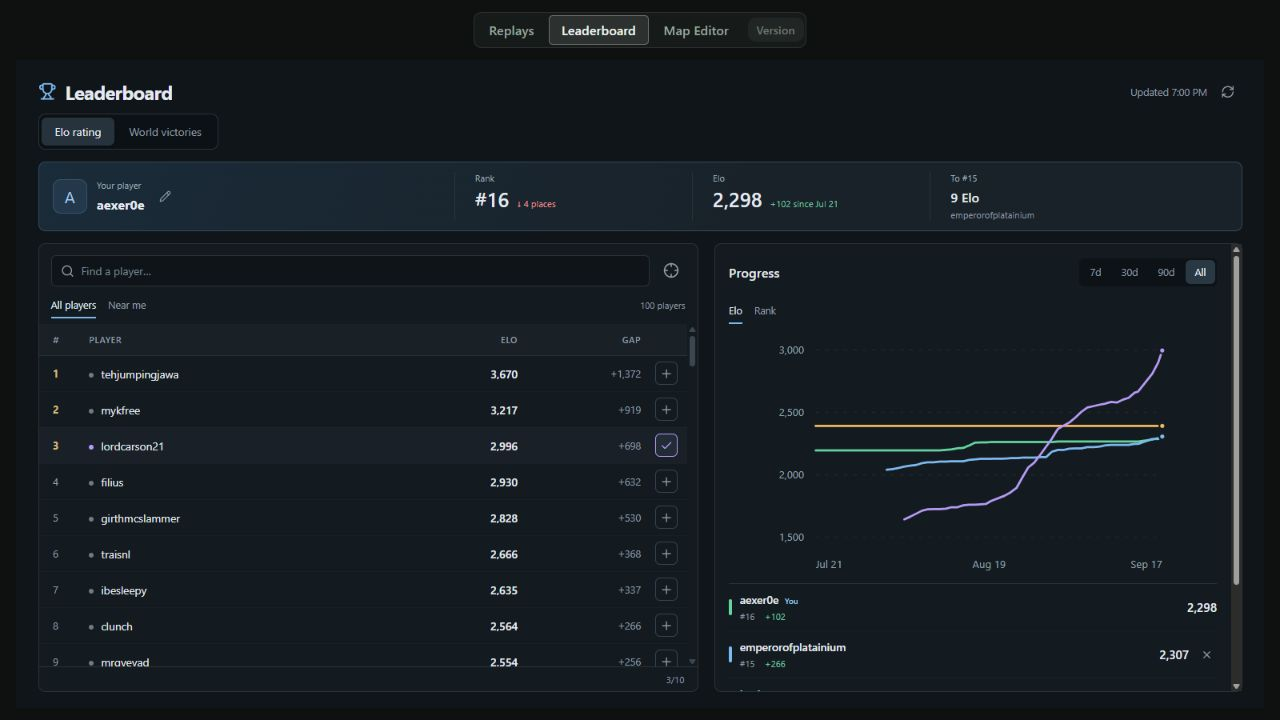
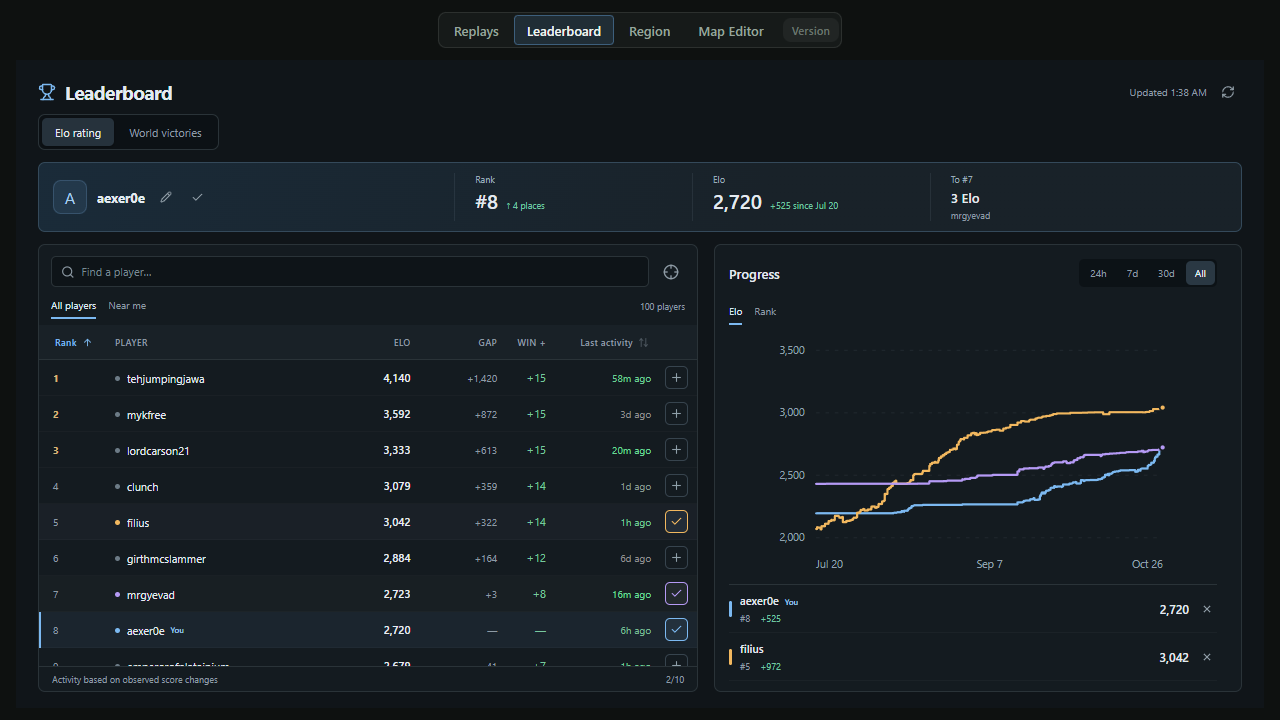
Update the landing page for 2.1.0 with downloads for every platform and new screenshots

diff --git a/docs/index.html b/docs/index.html
@@ -4,11 +4,11 @@
   <meta charset="utf-8">
   <meta name="viewport" content="width=device-width, initial-scale=1">
   <title>More of Dots</title>
-  <meta name="description" content="A free Windows app for War of Dots. Browse and record replays, track your rankings, and create custom maps.">
+  <meta name="description" content="A free app for War of Dots on Windows, macOS and Linux. Watch and export replays, follow the leaderboards, and build custom maps.">
   <link rel="icon" type="image/png" href="icon.png">
   <meta property="og:title" content="More of Dots">
-  <meta property="og:description" content="A free Windows app for War of Dots. Browse and record replays, track your rankings, and create custom maps.">
-  <meta property="og:image" content="screenshots/replays.png">
+  <meta property="og:description" content="A free app for War of Dots on Windows, macOS and Linux. Watch and export replays, follow the leaderboards, and build custom maps.">
+  <meta property="og:image" content="screenshots/player.png">
   <style>
     :root {
       --bg: #f7f3e8;
@@ -115,6 +115,28 @@
     }
 
     .btn.primary:hover { background: var(--green-dark); }
+
+    /* The other platforms, on one line under the main button. */
+    .also {
+      margin-top: 16px;
+      font-size: 0.95rem;
+      color: var(--muted);
+      display: flex;
+      gap: 6px 18px;
+      justify-content: center;
+      flex-wrap: wrap;
+    }
+
+    .also a {
+      color: var(--text);
+      font-weight: 600;
+      text-decoration-thickness: 2px;
+      text-underline-offset: 3px;
+    }
+
+    html[data-platform="windows"] .also [data-download="windows"],
+    html[data-platform="macos"] .also [data-download="macos"],
+    html[data-platform="linux"] .also [data-download="linux"] { display: none; }
 
     .fine-print {
       margin-top: 14px;
@@ -244,6 +266,39 @@
       font-size: 0.95rem;
     }
 
+    /* ---- platform notes ---- */
+
+    .notes {
+      margin-top: 56px;
+      display: grid;
+      grid-template-columns: repeat(3, 1fr);
+      gap: 18px;
+      font-size: 0.9rem;
+      color: var(--muted);
+    }
+
+    .notes div {
+      border-top: 3px solid var(--line);
+      padding-top: 10px;
+    }
+
+    .notes strong {
+      display: block;
+      color: var(--text);
+    }
+
+    .notes code {
+      font-family: Consolas, "SF Mono", monospace;
+      font-size: 0.88em;
+      background: rgba(43, 38, 32, 0.07);
+      padding: 1px 5px;
+      border-radius: 4px;
+    }
+
+    @media (max-width: 640px) {
+      .notes { grid-template-columns: 1fr; }
+    }
+
     /* ---- dots divider ---- */
 
     .dots {
@@ -295,18 +350,25 @@
       <path d="M3 8 C 20 2, 36 10, 52 6 S 84 2, 100 7 S 132 10, 148 5 S 178 3, 187 7"
             fill="none" stroke="#5c8a3c" stroke-width="4" stroke-linecap="round"/>
     </svg>
-    <p class="tagline">A free Windows app for War of Dots. Browse and record replays, track your rankings, and create custom maps.</p>
+    <p class="tagline">A free app for War of Dots on Windows, macOS and Linux. Watch and export replays, follow the leaderboards, and build custom maps.</p>
     <div class="buttons">
-      <a class="btn primary" id="download-btn" href="https://github.com/aexer0e/more-of-dots/releases/download/v1.3.4/More.of.Dots_1.3.4_x64-setup.exe">Download for Windows</a>
-      <a class="btn" href="https://github.com/aexer0e/more-of-dots">Source on GitHub</a>
+      <a class="btn primary" data-download="current" href="https://github.com/aexer0e/more-of-dots/releases/latest">Download for <span data-platform-name>Windows</span></a>
+      <a class="btn" href="https://aexer0e.dev/wod-replay-player/">Watch replays in your browser</a>
     </div>
-    <p class="fine-print" id="fine-print">Free · Open source · Windows installer · v1.3.4</p>
+    <p class="also">
+      <span>Also for</span>
+      <a data-download="windows" href="https://github.com/aexer0e/more-of-dots/releases/latest">Windows</a>
+      <a data-download="macos" href="https://github.com/aexer0e/more-of-dots/releases/latest">macOS</a>
+      <a data-download="linux" href="https://github.com/aexer0e/more-of-dots/releases/latest">Linux</a>
+      <a href="https://github.com/aexer0e/more-of-dots">Source on GitHub</a>
+    </p>
+    <p class="fine-print">Free · Open source · <span data-version>v2.1.0</span></p>
 
     <figure class="shot-hero tilt-l">
       <div class="shot">
-        <img src="screenshots/replays.png" alt="The replay browser showing a grid of War of Dots replays with map thumbnails, player names and winners" width="1280" height="720">
+        <img src="screenshots/player.png" alt="The replay player showing a 2v2 match on Zolamare 51, with front lines, units, player names, casualty and troop counts, and the playback bar" width="1280" height="720">
       </div>
-      <figcaption><span class="cap-dot blue"></span>Replay browser</figcaption>
+      <figcaption><span class="cap-dot blue"></span>Replay player, 2v2 on Zolamare 51</figcaption>
     </figure>
   </div>
 
@@ -327,15 +389,29 @@
         <li>
           <span class="dot" aria-hidden="true"></span>
           <div>
-            <strong>Replay browser</strong>
-            <p>Search by player, filter matches, and preview the latest maps. Replays are backed up automatically.</p>
+            <strong>Replay player</strong>
+            <p>Open any replay in its own window. Seek, change speed and toggle layers, with the game's own music and sounds.</p>
           </div>
         </li>
         <li>
           <span class="dot" aria-hidden="true"></span>
           <div>
-            <strong>Replay recording</strong>
-            <p>Export replays as videos, including older compatible replays. Install or update the recorder from the export dialog.</p>
+            <strong>Video export</strong>
+            <p>Turn replays into MP4 videos with sound, up to 1080p and much faster than real time.</p>
+          </div>
+        </li>
+        <li>
+          <span class="dot" aria-hidden="true"></span>
+          <div>
+            <strong>Every map, every mode</strong>
+            <p>Replays open on all 80 official maps in 1v1, 2v2, free-for-all and experiment mode.</p>
+          </div>
+        </li>
+        <li>
+          <span class="dot" aria-hidden="true"></span>
+          <div>
+            <strong>Replay browser</strong>
+            <p>Search by player, filter by mode and map, and keep a backup of every replay.</p>
           </div>
         </li>
         <li>
@@ -358,16 +434,37 @@
     <div class="shot-pair">
       <figure class="tilt-r">
         <div class="shot">
-          <img src="screenshots/map-editor.png" alt="The map editor with terrain painting tools and red and blue units placed on a custom map" width="1280" height="720" loading="lazy">
+          <img src="screenshots/replays.png" alt="The replay browser showing a grid of War of Dots replays with map names, modes, durations, player names and winners" width="1280" height="720" loading="lazy">
         </div>
-        <figcaption><span class="cap-dot red"></span>Map editor</figcaption>
+        <figcaption><span class="cap-dot red"></span>Replay browser</figcaption>
       </figure>
       <figure class="tilt-l">
         <div class="shot">
-          <img src="screenshots/leaderboard.png" alt="Global rankings with your player highlighted and a chart comparing player progress" width="1280" height="720" loading="lazy">
+          <img src="screenshots/export.png" alt="The video export dialog with the export folder, playback speed, bitrate, resolution, music and sound effect volumes, and layer choices" width="1280" height="720" loading="lazy">
         </div>
-        <figcaption><span class="cap-dot blue"></span>Leaderboards</figcaption>
+        <figcaption><span class="cap-dot blue"></span>Video export</figcaption>
       </figure>
+    </div>
+
+    <div class="shot-pair">
+      <figure class="tilt-l">
+        <div class="shot">
+          <img src="screenshots/map-editor.png" alt="The map editor with a river map, red and blue units, cities and bridges" width="1280" height="720" loading="lazy">
+        </div>
+        <figcaption><span class="cap-dot blue"></span>Map editor</figcaption>
+      </figure>
+      <figure class="tilt-r">
+        <div class="shot">
+          <img src="screenshots/leaderboard.png" alt="Global Elo rankings with your player highlighted and a chart comparing three players' progress" width="1280" height="720" loading="lazy">
+        </div>
+        <figcaption><span class="cap-dot red"></span>Leaderboards</figcaption>
+      </figure>
+    </div>
+
+    <div class="notes">
+      <div><strong>Windows</strong>Windows 10 or later. Region selection is available here only.</div>
+      <div><strong>macOS</strong>Apple silicon, macOS 11 or later. On first launch, choose Open Anyway in System Settings &gt; Privacy &amp; Security.</div>
+      <div><strong>Linux</strong>An AppImage, for War of Dots through Steam's Proton. Run <code>chmod +x</code> on the file, then open it.</div>
     </div>
 
     <div class="dots" aria-hidden="true">
@@ -381,20 +478,30 @@
   </div>
 
   <script>
-    // Point the download button at the newest installer; the hardcoded
-    // v1.3.4 app link stays as the fallback if this fails or JS is off.
-    fetch("https://api.github.com/repos/aexer0e/more-of-dots/releases/latest")
-      .then((r) => (r.ok ? r.json() : Promise.reject()))
-      .then((release) => {
-        const exe = (release.assets || []).find((a) => /^More\.of\.Dots_\d+\.\d+\.\d+_x64-setup\.exe$/.test(a.name));
-        if (!exe) return;
-        document.getElementById("download-btn").href = exe.browser_download_url;
-        if (release.tag_name) {
-          document.getElementById("fine-print").textContent =
-            "Free · Open source · Windows installer · " + release.tag_name;
-        }
-      })
-      .catch(() => {});
+    // Points each download link at the newest release's installer for its platform
+    // and names the visitor's platform on the main button. Without the API, the
+    // links keep pointing at the latest release page.
+    (function () {
+      var patterns = { windows: /_x64-setup\.exe$/, macos: /_aarch64\.dmg$/, linux: /_amd64\.AppImage$/ };
+      var name = (navigator.userAgentData && navigator.userAgentData.platform) || navigator.platform || navigator.userAgent;
+      var platform = /win/i.test(name) ? "windows" : /mac/i.test(name) ? "macos" : /linux|x11|cros/i.test(name) ? "linux" : "windows";
+      document.documentElement.dataset.platform = platform;
+      document.querySelector("[data-platform-name]").textContent = { windows: "Windows", macos: "macOS", linux: "Linux" }[platform];
+      document.querySelector("[data-download='current']").dataset.download = platform;
+
+      fetch("https://api.github.com/repos/aexer0e/more-of-dots/releases/latest")
+        .then(function (response) { return response.ok ? response.json() : Promise.reject(); })
+        .then(function (release) {
+          var assets = release.assets || [];
+          document.querySelectorAll("[data-download]").forEach(function (link) {
+            var pattern = patterns[link.dataset.download];
+            var asset = pattern && assets.find(function (item) { return pattern.test(item.name); });
+            if (asset) link.href = asset.browser_download_url;
+          });
+          if (release.tag_name) document.querySelector("[data-version]").textContent = release.tag_name;
+        })
+        .catch(function () {});
+    })();
   </script>
 </body>
 </html>

diff --git a/src/dev/examples.ts b/src/dev/examples.ts
@@ -44,6 +44,9 @@ export async function exampleInvoke<T>(command: string, args: Record<string, unk
     case 'leaderboard_identity': result = data.identity; break;
     case 'list_replays': result = { replays: stressReplays(data.replays.slice(0, 100)) }; break;
     case 'replay_thumbnail_paths': result = []; break;
+    // The export dialog asks for a default folder and the game's sounds; examples never write videos.
+    case 'recording_default_directory': result = 'C:\\Users\\Player\\Videos'; break;
+    case 'game_audio': result = { files: {}, music: 0.3, sfx: 0.3 }; break;
     case 'list_maps': result = data.maps; break;
     case 'read_map': result = data.maps.find((m) => m.id === args.fileName); break;
     case 'save_map': {

diff --git a/src-tauri/src/lib.rs b/src-tauri/src/lib.rs
@@ -1456,7 +1456,7 @@ fn recording_default_directory(app: AppHandle) -> Result<PathBuf, String> {
     let videos_dir = app
         .path()
         .video_dir()
-        .map_err(|error| format!("Windows Videos folder is unavailable: {error}"))?;
+        .map_err(|error| format!("The Videos folder is unavailable: {error}"))?;
     fs::create_dir_all(&videos_dir)
         .map_err(|error| format!("Could not prepare {}: {error}", videos_dir.display()))?;
     Ok(videos_dir)
